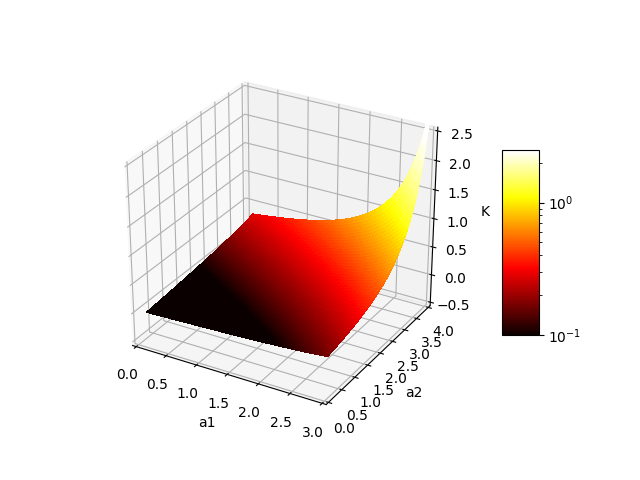
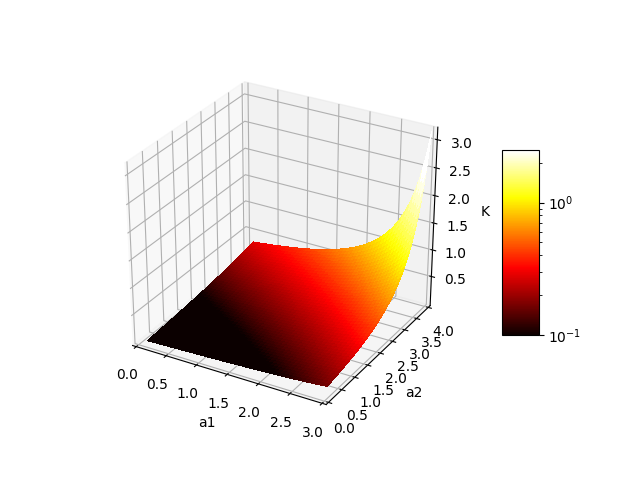
fixed k surface plot for pos and neg a2

diff --git a/k_pm_a.py b/k_pm_a.py
@@ -10,11 +10,14 @@ import matplotlib.cm as cm
 import matplotlib.colors as cc
 from scipy import special
 R1=0.5
-R2=1
+R2=1.0
 'a1r1 already used in kn function'
 al1=np.linspace(0.1,3,800) # Bessel functions only take positive values
-al2=np.linspace(0.1,4,800) #Assures that the arrays have the same number of elements
+al2=np.linspace(-4.01,4,800) #Assures that the arrays have the same number of elements
+#al2test=np.linspace(0.01,-3,800)
+#al1test=np.linspace(0.1,1,800)
 alpha1,alpha2=np.meshgrid(al1,al2)
+#alpha1t, alpha2t=np.meshgrid(al1test,al2test)
 scsp=scipy.special
 'Function to take a1r1 and a1r1 vales can return 2D K'
 'Used for making surface pla2r2 of a1r1,a1r1,K'
@@ -37,21 +40,21 @@ def kn(alpha1,alpha2):
     'for a2>0'
     def c2p(a1,a2):
         'c2 constant for positive a2'
-        c2p=j(0,a1)*j(1,a2)-j(1,a1)*j(0,a2)
-        return c2p
+        c21=j(0,a1)*j(1,a2)-j(1,a1)*j(0,a2)
+        return c21
     def b2p(a1,a2):
         'b2 constant for positive a2'
-        b2p=j(1,a1)*y(0,a2)-j(0,a1)*y(1,a2)
-        return b2p
+        b21=j(1,a1)*y(0,a2)-j(0,a1)*y(1,a2)
+        return b21
     def c2n(a1,a2):
         'c2 constant for negative a2'
-        c2n=j(0,a1)*j(1,a2)+j(1,a1)*j(0,a2)
-        return c2n
+        c22=j(0,a1)*j(1,a2)+j(1,a1)*j(0,a2)
+        return c22
     def b2n(a1,a2):
         'b2 constant for negative a2'
-        b2n=-j(1,a1)*y(0,a2)-j(0,a1)*y(1,a2)
-        return b2n
-    'producing constants for different a2 values'
+        b22=-j(1,a1)*y(0,a2)-j(0,a1)*y(1,a2)
+        return b22
+    'producing constants for different a2 values, used for B1'
     c2prodp=np.where((alpha1>0) & (alpha2>0),c2p(a1r1,a2r1),0)
     b2prodp=np.where((alpha1>0) & (alpha2>0),b2p(a1r1,a2r1),0)
     c2prodn=np.where((alpha1>0) & (alpha2<0),c2n(a1r1,a2r1),0)
@@ -73,14 +76,15 @@ def kn(alpha1,alpha2):
     	return f
     'norm for positive a2'
     def norm(b2prod,c2b2rat):
-        norm0=(2*np.pi*(R2*'b2prod'*(F1(a2r2,c2b2rat)/(abs(alpha2)*dis))+R1*ctb1rat))   
+        norm0=(2*np.pi*(R2*b2prod*(F1(a2r2,c2b2rat)/(abs(alpha2)*dis))+R1*ctb1rat))   
         return norm0
     'B1 is the same if a2>0 or a2<0'
-    B1p=np.where((alpha1>0) & (alpha2>0),1/norm(b2prodp,c2b2ratp),0)
+    'functon within function used to avoid zero terms in b2prod as 1/0 gives error'
+    B1p=np.where((alpha1>0) & (alpha2>0),1/norm(b2p(a1r1,a2r1),c2b2ratp),0)
     B2p=B1p*b2prodp/dis
     C2p=B1p*c2prodp/dis
 
-    B1n=np.where((alpha1>0) & (alpha2<0),1/norm(b2prodn,c2b2ratn),0)
+    B1n=np.where((alpha1>0) & (alpha2<0),1/norm(b2n(a1r1,a2r1),c2b2ratn),0)
     B2n=B1n*b2prodn/dis
     C2n=B1n*c2prodn/dis   
 
@@ -94,26 +98,29 @@ def kn(alpha1,alpha2):
         k1=(2*np.pi*B1**2)*((r1**2)*(j0**2+j1**2)-2*r1*j0*j1/alpha1)/alpha1
 
         'k2 only uses a2'
-        f1r1=F1(abs(alpha2*r1),c2b2ratp)
-        f1r2=F1(abs(alpha2*r2),c2b2ratp)
-        f0r1=F0(abs(alpha2*r1),c2b2ratp)
-        f0r2=F0(abs(alpha2*r2),c2b2ratp)
+        f1r1=F1(abs(alpha2*r1),c2b2rat)
+        f1r2=F1(abs(alpha2*r2),c2b2rat)
+        f0r1=F0(abs(alpha2*r1),c2b2rat)
+        f0r2=F0(abs(alpha2*r2),c2b2rat)
         sgn=alpha2/abs(alpha2)
 
         k2=((r2**2)*(f0r2**2+f1r2**2)-2*r2*f0r2*f1r2/abs(alpha2))-(r1**2)*(f0r1**2+f1r1**2)
         k2=(k2+2*r1*f0r1*f1r1/abs(alpha2))*(2*np.pi*B2**2)/abs(alpha2) #here whole term multipied by constant
         k2=k2+(4*np.pi*B2*B1*r1*ctb1rat*(f0r1-f0r2))/abs(alpha2)
-        return k
-    kp=np.where((alpha1>0) &(alpha2>0),k(B1p,B2p,c2b2ratp,R1,R2),0)
-    kn=np.where((alpha1>0) &(alpha2<0),k(B1n,B2n,c2b2ratn,R1,R2),0)
-    helicity=np.add(kp,kn)
+        k2=k2*sgn
+        return k1+k2
+    kp1=np.where((alpha1>0) &(alpha2>0),k(B1p,B2p,c2b2ratp,R1,R2),0)
+    kn1=np.where((alpha1>0) &(alpha2<0),k(B1n,B2n,c2b2ratn,R1,R2),0)
+    helicity=kp1+kn1
     return helicity
-
+#print(kn(alpha1t,alpha2t))
 fig=plt.figure()
 ax=fig.gca(projection='3d')
 fn = kn(alpha1,alpha2)
-zlim = 2.5
-norm = cc.LogNorm(vmin=0.1, vmax=zlim)
+zmax = 2.5
+zmin= -0.5 #can log norm function take negative values?
+#norm = cc.LogNorm(vmin=zmin, vmax=zmax)
+norm=cc.PowerNorm(gamma=1)
 surf=ax.plot_surface(alpha1,alpha2, fn, cmap=cm.hot,
                      linewidth=0,antialiased=False,
                      norm=norm)
@@ -122,14 +129,16 @@ ax.set_ylabel('a2')
 ax.set_zlabel('K')
 #Add color bar
 fig.colorbar(surf,shrink=0.5,aspect=5) 
-ax.set_zlim(-0.5, zlim)
-ax.set_xlim(0, 3.0)
-ax.set_ylim(0, 4.0)
-#plt.savefig('pos_a_3dF7.png')
+#ax.set_zlim(zmin, zmax)
+#ax.set_xlim(0, 3.0)
+#ax.set_ylim(0, 4.0)
+print(max(al1),min(al1))
+plt.savefig('pos_neg_a2_3d.png')
 plt.show()
+
 #for k_single check
-'''plt.plot(al1,kn(al1,al1))
-plt.xlabel('a1r1')
-plt.ylabel('a2r2a1r1,a1r1)')
-plt.savefa2r2('Ktest.png') 
-plt.show()'''
+#plt.plot(al1,kn(al1,al1))
+#plt.xlabel('a1r1')
+#plt.ylabel('a2r2a1r1,a1r1)')
+#plt.savefa2r2('Ktest.png') 
+#plt.show()

diff --git a/pos_a_k.py b/pos_a_k.py
@@ -101,7 +101,7 @@ ax.set_ylabel('a2')
 ax.set_zlabel('K')
 #Add color bar
 fig.colorbar(surf,shrink=0.5,aspect=5) 
-ax.set_zlim(-0.5, zlim)
+#ax.set_zlim(-0.5, zlim)
 ax.set_xlim(0, 3.0)
 ax.set_ylim(0, 4.0)
 
